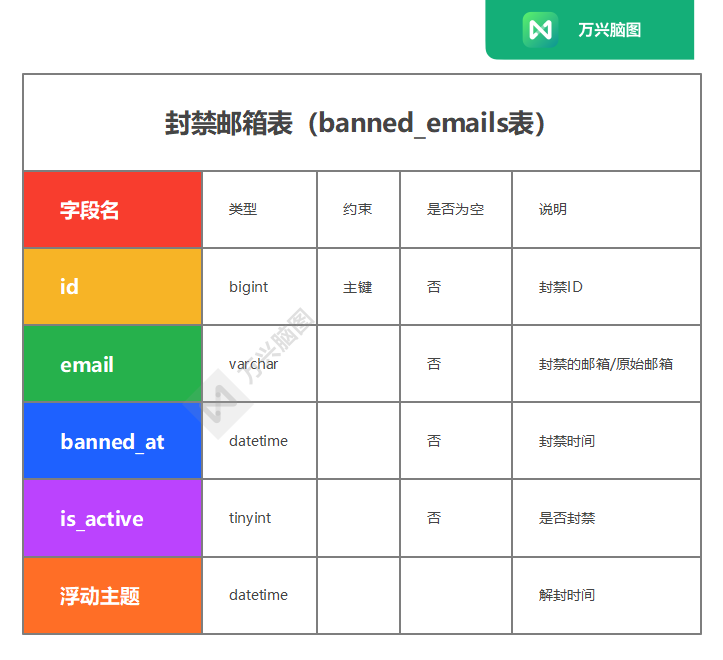
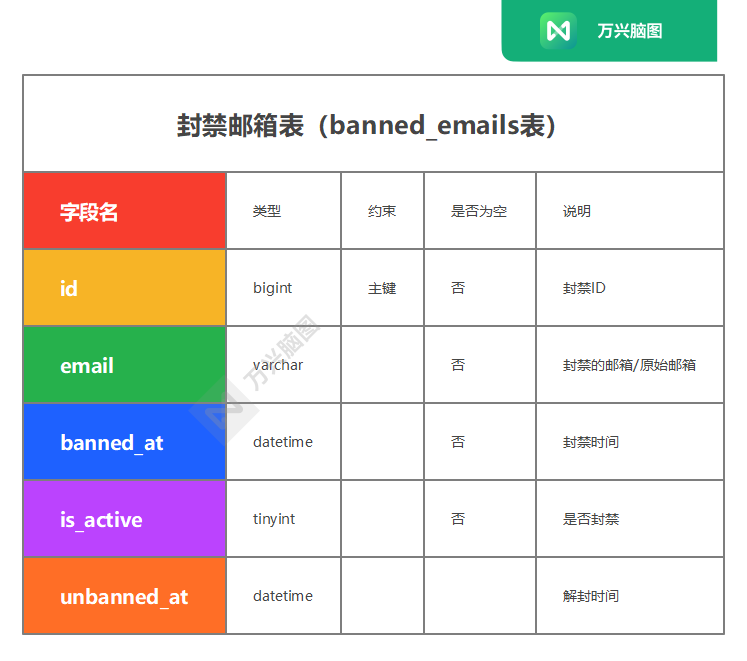
实现角色委任

diff --git a/accounts/serializers.py b/accounts/serializers.py
@@ -13,7 +13,7 @@ from django.conf import settings
 from rest_framework import serializers
 
 # 4. 当前app自定义代码
-from .models import Tenant, User, BannedEmail
+from .models import Tenant, User, BannedEmail, AuditLog
 from .utils import redis_client, check_tenant_active
 
 # 企业注册 序列化器
@@ -242,3 +242,79 @@ class ActivateSerializer(serializers.Serializer):
             user.save()
 
             return user
+
+# 角色委任
+class AssignRoleSerializer(serializers.Serializer):
+    user_id = serializers.IntegerField(label='目标用户ID')
+    target_role = serializers.ChoiceField(
+        choices=['admin', 'member'], label='目标角色'
+    )
+    target_role_type = serializers.ChoiceField(
+        choices=['hr', 'legal', ''], default='', required=False, label='管理员类型'
+    )
+
+    def validate(self, attrs):
+        # 拿到当前操作者
+        operator = self.context['request'].user
+
+        # 1. 只有董事长可以委任
+        if operator.role != 'owner':
+            raise serializers.ValidationError('只有董事长可以委任职位')
+
+        # 2. 查询目标用户是否为本公司
+        target = User.objects.filter(
+            id=attrs['user_id'],
+            tenant=operator.tenant,   # 天然隔离跨租户
+        ).first()
+        if not target:
+            raise serializers.ValidationError('用户不存在或不属于本公司')
+        
+        # 3. 不能委任自己
+        if target.id == operator.id:
+            raise serializers.ValidationError('不能委任自己')
+
+        # 4. 不能操作其他董事长
+        if target.role == 'owner':
+            raise serializers.ValidationError('董事长之间无法互相委任')
+
+        # 5. 只能委任在职用户
+        if target.status != 'active':
+            raise serializers.ValidationError('只能委任在职用户')
+
+        # 6. 目标角色与原角色相同，无需操作
+        if (target.role == attrs['target_role']
+                and target.role_type == attrs['target_role_type']):
+            raise serializers.ValidationError('该用户已是此角色')
+
+        # 7. 角色和 role_type 搭配校验
+        # 委任HR/法务时，必须指定 role_type；
+        if attrs['target_role'] == 'admin' and attrs['target_role_type'] not in ['hr', 'legal']:
+            raise serializers.ValidationError('委任为管理员时必须指定 HR 或法务')
+        # 委任员工时，role_type 必须为空
+        if attrs['target_role'] == 'member' and attrs['target_role_type'] != '':
+            raise serializers.ValidationError('委任为员工时 role_type 必须为空')
+
+        attrs['target'] = target
+        return attrs
+
+    def save(self, **kwargs):
+        target = self.validated_data['target']
+        operator = self.context['request'].user
+        old_role = target.role
+        old_role_type = target.role_type
+
+        with transaction.atomic():
+            target.role = self.validated_data['target_role']
+            target.role_type = self.validated_data['target_role_type']
+            target.save(update_fields=['role', 'role_type'])
+
+            AuditLog.objects.create(
+                tenant=operator.tenant,
+                operator=operator,
+                target_user=target,
+                action='assign_role',
+                detail=f'角色从 {old_role}/{old_role_type or "无"} '
+                       f'改为 {target.role}/{target.role_type or "无"}',
+            )
+
+        return target

diff --git a/accounts/admin.py b/accounts/admin.py
@@ -1,7 +1,7 @@
 from django.contrib import admin
 from django.db.models import Exists, OuterRef
 from django.utils import timezone
-from .models import Tenant, User, BannedEmail
+from .models import Tenant, User, BannedEmail, AuditLog
 
 # 封禁用户：把他们的邮箱加入 BannedEmail 平台黑名单
 @admin.action(description='封禁选中用户（加入平台黑名单）')
@@ -32,13 +32,34 @@ def unban_emails(modeladmin, request, queryset):
     else:
         modeladmin.message_user(request, '选中的记录中没有生效中的封禁')
 
+# 审计日志表
+@admin.register(AuditLog)
+class AuditLogAdmin(admin.ModelAdmin):
+    list_display = ('id', 'tenant', 'operator', 'target_user', 'action', 'created_at')
+    list_filter = ('action', 'tenant')
+    search_fields = ('operator__email', 'target_user__email', 'detail')
+    readonly_fields = ('tenant', 'operator', 'target_user', 'action', 'detail', 'created_at')
+    
+    # 审计日志不允许手动新增
+    def has_add_permission(self, request):
+        return False
 
+    # 审计日志不允许修改
+    def has_change_permission(self, request, obj=None):
+        return False
+
+    # 审计日志不允许删除
+    def has_delete_permission(self, request, obj=None):
+        return False
+    
+# 租户表
 @admin.register(Tenant)
 class TenantAdmin(admin.ModelAdmin):
     list_display = ('id', 'name', 'status', 'created_at')
     list_filter = ('status',)
     search_fields = ('name',)
-    
+
+# 用户表
 @admin.register(User)
 class UserAdmin(admin.ModelAdmin):
     # 后台展示字段
@@ -64,6 +85,7 @@ class UserAdmin(admin.ModelAdmin):
     display_banned.boolean = True
     display_banned.short_description = '已封禁'
 
+# 封禁邮箱表
 @admin.register(BannedEmail)
 class BannedEmailAdmin(admin.ModelAdmin):
     list_display = ('id', 'email', 'is_active', 'banned_at', 'unbanned_at')

diff --git a/accounts/migrations/0005_auditlog.py b/accounts/migrations/0005_auditlog.py
@@ -1,0 +1,33 @@
+# Generated by Django 5.2.17 on 2026-10-08 15:42
+
+import django.db.models.deletion
+from django.conf import settings
+from django.db import migrations, models
+
+
+class Migration(migrations.Migration):
+
+    dependencies = [
+        ('accounts', '0004_bannedemail'),
+    ]
+
+    operations = [
+        migrations.CreateModel(
+            name='AuditLog',
+            fields=[
+                ('id', models.BigAutoField(auto_created=True, primary_key=True, serialize=False, verbose_name='ID')),
+                ('action', models.CharField(choices=[('assign_role', '委任角色'), ('resign', '离职'), ('invite', '邀请'), ('ban', '平台封禁'), ('unban', '平台解封'), ('self_reset_password', '自助重置密码'), ('cancel_tenant', '公司注销')], max_length=30, verbose_name='操作类型')),
+                ('detail', models.TextField(blank=True, verbose_name='操作详情')),
+                ('created_at', models.DateTimeField(auto_now_add=True, verbose_name='操作时间')),
+                ('operator', models.ForeignKey(blank=True, null=True, on_delete=django.db.models.deletion.SET_NULL, related_name='operated_logs', to=settings.AUTH_USER_MODEL, verbose_name='操作者')),
+                ('target_user', models.ForeignKey(blank=True, null=True, on_delete=django.db.models.deletion.SET_NULL, related_name='targeted_logs', to=settings.AUTH_USER_MODEL, verbose_name='被操作者')),
+                ('tenant', models.ForeignKey(blank=True, null=True, on_delete=django.db.models.deletion.CASCADE, to='accounts.tenant', verbose_name='所属公司')),
+            ],
+            options={
+                'verbose_name': '审计日志',
+                'verbose_name_plural': '审计日志',
+                'db_table': 'audit_logs',
+                'ordering': ['-created_at'],
+            },
+        ),
+    ]

diff --git a/accounts/models.py b/accounts/models.py
@@ -163,3 +163,52 @@ class BannedEmail(models.Model):
         else:
             status = '已解封'
         return f'{self.email}（{status}）'
+
+# audit_logs 审计日志表
+class AuditLog(models.Model):
+    ACTION_CHOICES = [
+        ('assign_role', '委任角色'),
+        ('resign', '离职'),
+        ('invite', '邀请'),
+        ('ban', '平台封禁'),
+        ('unban', '平台解封'),
+        ('self_reset_password', '自助重置密码'),
+        ('cancel_tenant', '公司注销'),
+    ]
+
+    tenant = models.ForeignKey(
+        'Tenant',
+        on_delete=models.CASCADE,
+        null=True, blank=True,
+        verbose_name='所属公司'
+    )
+    operator = models.ForeignKey(
+        'User',
+        on_delete=models.SET_NULL,
+        null=True, blank=True,
+        related_name='operated_logs',
+        verbose_name='操作者'
+    )
+    target_user = models.ForeignKey(
+        'User',
+        on_delete=models.SET_NULL,
+        null=True, blank=True,
+        related_name='targeted_logs',
+        verbose_name='被操作者'
+    )
+    action = models.CharField(
+        max_length=30,
+        choices=ACTION_CHOICES,
+        verbose_name='操作类型'
+    )
+    detail = models.TextField(blank=True, verbose_name='操作详情')
+    created_at = models.DateTimeField(auto_now_add=True, verbose_name='操作时间')
+
+    class Meta:
+        db_table = 'audit_logs'
+        verbose_name = '审计日志'
+        verbose_name_plural = '审计日志'
+        ordering = ['-created_at']
+
+    def __str__(self):
+        return f'{self.operator} {self.get_action_display()} {self.target_user}'

diff --git a/accounts/views.py b/accounts/views.py
@@ -11,10 +11,9 @@ from rest_framework.response import Response
 from rest_framework_simplejwt.tokens import RefreshToken
 
 # 4. 当前app自定义代码
-from .models import User, BannedEmail
+from .models import User, BannedEmail, Tenant, AuditLog
 from .utils import redis_client
-from .serializers import RegisterSerializer, LoginSerializer, InviteSerializer, ActivateSerializer
-
+from .serializers import RegisterSerializer, LoginSerializer, InviteSerializer, ActivateSerializer, AssignRoleSerializer
 # 发送验证码视图
 @api_view(['POST'])
 def send_verification_code(request):
@@ -136,4 +135,22 @@ def activate(request):
     if serializer.is_valid():
         serializer.save()
         return Response({'message': '激活成功，请前往登录'}, status=200)
+    return Response(serializer.errors, status=400)
+
+# 角色委任
+@api_view(['POST'])
+def assign_role(request):
+    serializer = AssignRoleSerializer(data=request.data, context={'request': request})
+    if serializer.is_valid():
+        target = serializer.save()
+        return Response({
+            'message': '委任成功',
+            'user': {
+                'id': target.id,
+                'email': target.email,
+                'full_name': target.full_name,
+                'role': target.role,
+                'role_type': target.role_type,
+            }
+        }, status=200)
     return Response(serializer.errors, status=400)

diff --git a/accounts/migrations/0004_bannedemail.py b/accounts/migrations/0004_bannedemail.py
@@ -1,0 +1,28 @@
+# Generated by Django 5.2.17 on 2026-10-08 10:12
+
+from django.db import migrations, models
+
+
+class Migration(migrations.Migration):
+
+    dependencies = [
+        ('accounts', '0003_remove_tenant_is_active_tenant_status_and_more'),
+    ]
+
+    operations = [
+        migrations.CreateModel(
+            name='BannedEmail',
+            fields=[
+                ('id', models.BigAutoField(auto_created=True, primary_key=True, serialize=False, verbose_name='ID')),
+                ('email', models.EmailField(max_length=254, unique=True, verbose_name='被封禁的邮箱')),
+                ('banned_at', models.DateTimeField(auto_now_add=True, verbose_name='封禁时间')),
+                ('is_active', models.BooleanField(default=True, verbose_name='是否生效')),
+                ('unbanned_at', models.DateTimeField(blank=True, null=True, verbose_name='解封时间')),
+            ],
+            options={
+                'verbose_name': '平台封禁邮箱',
+                'verbose_name_plural': '平台封禁邮箱',
+                'db_table': 'banned_emails',
+            },
+        ),
+    ]

diff --git a/accounts/urls.py b/accounts/urls.py
@@ -14,4 +14,6 @@ urlpatterns = [
     path('invite/', views.invite, name='invite'),
     # 激活账号
     path('activate/', views.activate, name='activate'),
+    # 角色委任
+    path('assign-role/', views.assign_role, name='assign_role'),
 ]
